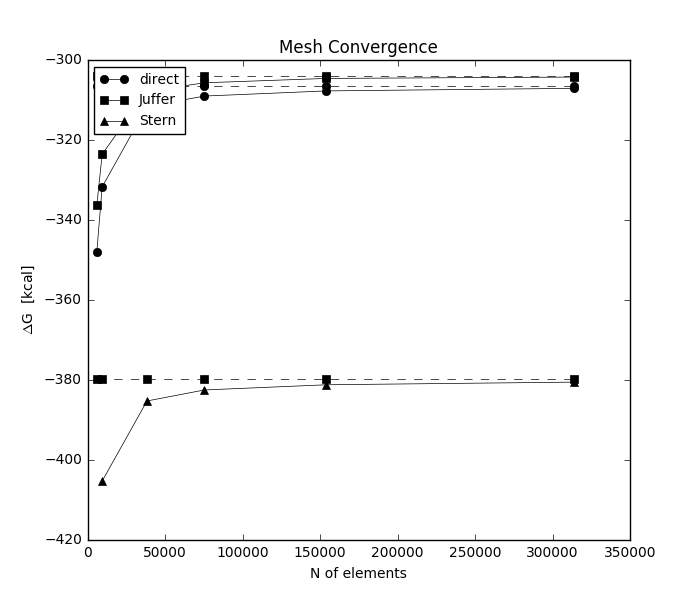
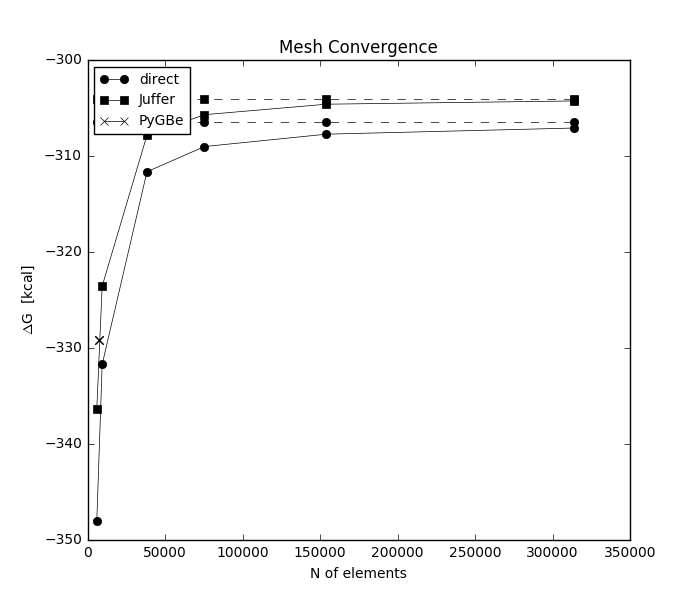
problem w pygbe elements

diff --git a/ploter.py b/ploter.py
@@ -24,6 +24,15 @@ energy_s1 = [l['energy'] for l in dicts if l['formulation']=='stern_d' and l['st
 times_s1 = np.array([[l['assemble_time'], l['solver_time'], l['total_time']]
 						 for l in dicts if l['formulation']=='stern_d' and l['stern_radius']==1.4])
 
+n_pygbe_1 = [l['n_of_elements']
+						 for l in dicts if l['formulation']=='PyGBe' and l['stern_radius']==1.4]
+energy_pg = [l['energy'] for l in dicts if l['formulation']=='PyGBe' and l['stern_radius']==1.4]
+times_pg = np.array([[l['solver_time'], l['total_time']]
+						 for l in dicts if l['formulation']=='PyGBe' and l['stern_radius']==1.4])
+
+print n_pygbe_1
+print energy_pg
+
 n_stern_2 = [l['n_of_elements']
 						 for l in dicts if l['formulation']=='stern_d' and l['stern_radius']!=1.4]
 energy_s2 = [l['energy'] for l in dicts if l['formulation']=='stern_d' and l['stern_radius']!=1.4]
@@ -38,9 +47,12 @@ radius_pr = [l['stern_radius']
 rich_energy_d, _, _ = gf.richardson_extrapolation(energy_d, n_boundary_elements)
 rich_energy_j, _, _ = gf.richardson_extrapolation(energy_j, n_boundary_elements)
 rich_energy_s, _, _ = gf.richardson_extrapolation(energy_s1, n_stern_1)
+#rich_energy_p, _, _ = gf.richardson_extrapolation(energy_pg, n_pygbe_1)
+
 r_solution_d = rich_energy_d*np.ones(len(n_boundary_elements))
 r_solution_j = rich_energy_j*np.ones(len(n_boundary_elements))
 r_solution_s = rich_energy_s*np.ones(len(n_boundary_elements))
+#r_solution_p = rich_energy_p*np.ones(len(n_boundary_elements))
 
 import matplotlib.pyplot as plt
 plt.switch_backend('agg')
@@ -52,17 +64,21 @@ params = {'figure.figsize':  (7, 6),
           'ytick.labelsize': 10,
 		  'legend.fontsize': 10,
 		  'lines.linewidth': .5,
+		  'lines.color': 'k',
 		  'legend.loc': 'upper left'}
 plt.rcParams.update(params)
 
 energy_rslt = plt.figure().add_subplot(111)
 energy_rslt.plot(n_boundary_elements, energy_d, marker='o', label='direct', color='k')
 energy_rslt.plot(n_boundary_elements, energy_j, marker='s', label='Juffer', color='k')
-energy_rslt.plot(n_stern_1, energy_s1, marker='^', label='Stern', color='k')
+#energy_rslt.plot(n_stern_1, energy_s1, marker='^', label='Stern', color='k')
+energy_rslt.plot(n_pygbe_1, energy_pg, marker='x', label='PyGBe', color='k')
 
 energy_rslt.plot(n_boundary_elements, r_solution_d, 'r--', marker='o', color='k')
 energy_rslt.plot(n_boundary_elements, r_solution_j, 'r--', marker='s', color='k')
-energy_rslt.plot(n_boundary_elements, r_solution_s, 'r--', marker='s', color='k')
+#energy_rslt.plot(n_boundary_elements, r_solution_s, 'r--', marker='s', color='k')
+#energy_rslt.plot(n_boundary_elements, r_solution_p, 'r--', marker='x', color='k')
+
 
 energy_rslt.set_title('Mesh Convergence')
 energy_rslt.set_xlabel('N of elements')

diff --git a/general_functions.py b/general_functions.py
@@ -129,7 +129,7 @@ def run_pygbe(mol_name, mesh_density, stern_radius, info=False):
 	print '\nRuning PyGBe for ' + mesh_name
 	print 'Stern Rad: ' + stern_radius
 	print 'Mesh Dens: ' + mesh_density
-	os.system('pygbe {} > {}'.format(mol_directory, result_file))
+	os.system('pygbe {} 2>&1 | tee {}'.format(mol_directory, result_file))
 	energy_file = open(result_file, 'r').read().split('\n')
 	
 	if 'Time' in energy_file[-2]:	# bad n poor check
@@ -147,4 +147,5 @@ def run_pygbe(mol_name, mesh_density, stern_radius, info=False):
 			info_dict['stern_radius'] = stern_radius
 
         	save_log(mol_name, info_dict)
+	os.system('rm ' + result_file)
 	print 'PyGBe Finished'
